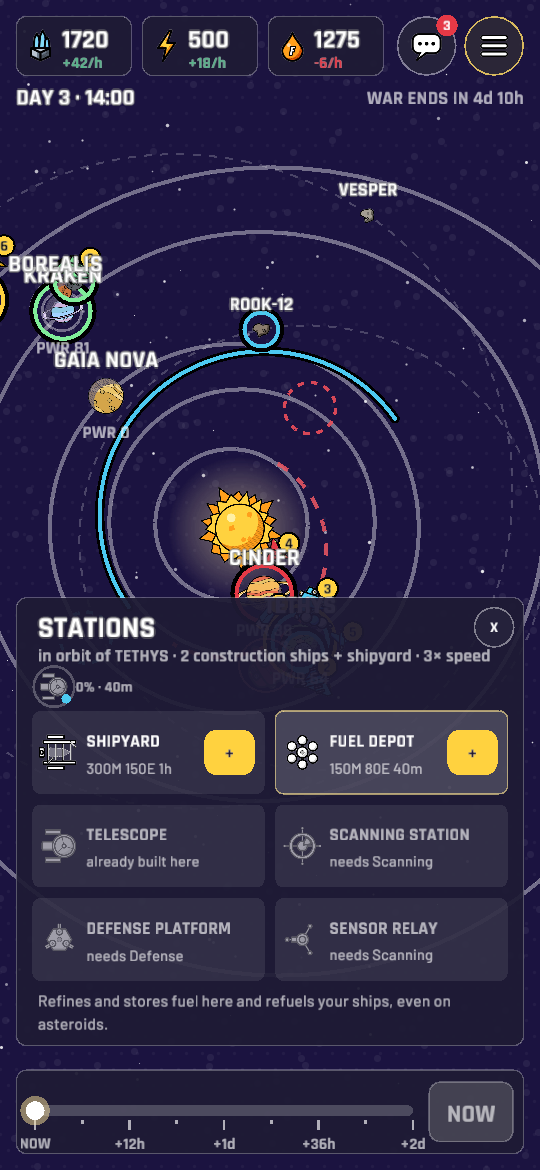
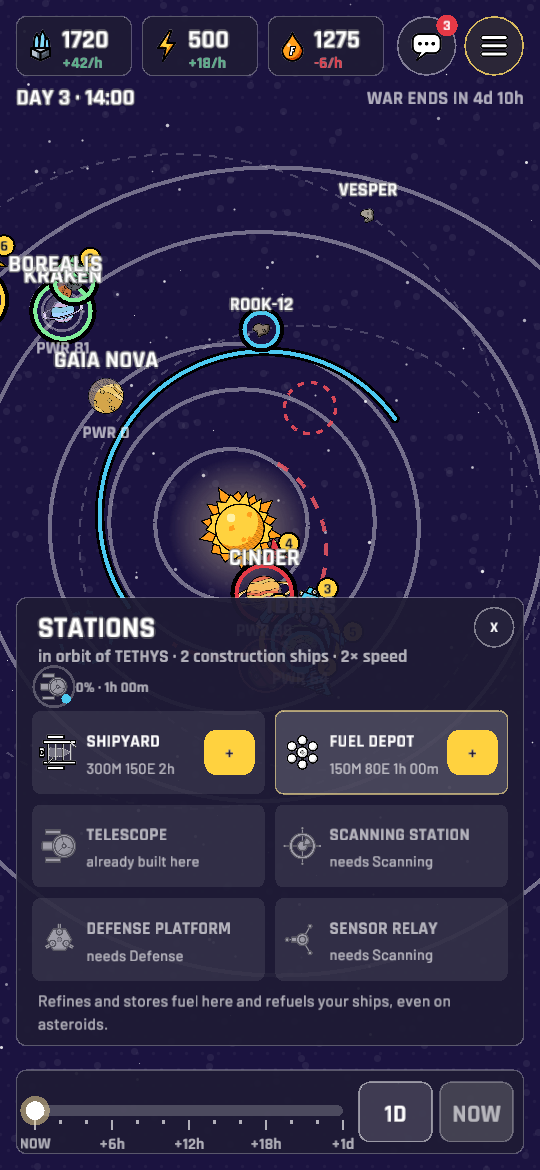
Stations need construction ships everywhere (Jonas): planet shipyards no longer count as a worker

diff --git a/crates/sim/src/station.rs b/crates/sim/src/station.rs
@@ -1,7 +1,7 @@
 //! Space stations: built in orbit of a planet, moon or asteroid. Unlike planet upgrades they
 //! don't need the body itself — a ship parked there is enough — so you can put a fuel depot on
 //! an asteroid or a telescope next to an enemy world. Stations are separate targets in combat.
-use crate::game::{EventKind, Game, PlayerId, ShipClass, Upgrade};
+use crate::game::{EventKind, Game, PlayerId, ShipClass};
 use crate::system::BodyId;
 use crate::tech::Tech;
 use serde::{Deserialize, Serialize};
@@ -127,7 +127,7 @@ impl Game {
 
     /// Why `p` can't build a `kind` station at `body` right now (None = it can).
     pub fn station_blocker(&self, p: PlayerId, body: BodyId, kind: StationKind) -> Option<String> {
-        let b = self.bodies.get(body.0 as usize)?;
+        self.bodies.get(body.0 as usize)?;
         if self.system.body(body).is_star() {
             return Some("can't build in orbit of the star".into());
         }
@@ -137,7 +137,7 @@ impl Game {
             }
         }
         if self.workers(p, body) == 0 {
-            return Some(if b.owner == Some(p) { "needs a shipyard or a construction ship here" } else { "needs a construction ship in orbit" }.into());
+            return Some("needs a construction ship in orbit".into());
         }
         if self.stations.iter().any(|s| s.owner == p && s.body == body && s.kind == kind) {
             return Some("you already have one there".into());
@@ -163,12 +163,10 @@ impl Game {
         self.ships.iter().filter(|s| s.owner == p && s.class == ShipClass::Constructor && s.parked_at() == Some(body)).count()
     }
 
-    /// Workers on `p`'s construction sites at `body`: constructors parked there, plus the body's own
-    /// shipyard if `p` holds it. Capped at `MAX_WORKERS`.
+    /// Workers on `p`'s construction sites at `body`: the constructors parked there (stations always
+    /// need construction ships, even at your own planets). Capped at `MAX_WORKERS`.
     pub fn workers(&self, p: PlayerId, body: BodyId) -> usize {
-        let b = &self.bodies[body.0 as usize];
-        let yard = (b.owner == Some(p) && b.level(Upgrade::Shipyard) > 0) as usize;
-        (self.constructors_at(p, body) + yard).min(MAX_WORKERS)
+        self.constructors_at(p, body).min(MAX_WORKERS)
     }
 
     /// Work done per second at `p`'s sites at `body` (each site there gets the full crew).
@@ -255,7 +253,9 @@ mod tests {
         let b = |g: &mut Game, body, kind| g.apply(0, Command::BuildStation { body, kind });
         assert!(b(&mut g, away, StationKind::Telescope).unwrap_err().contains("construction ship"));
         assert!(b(&mut g, home, StationKind::Scanner).unwrap_err().contains("Scanning"));
-        // home has a shipyard: one worker, so the listed single-worker time
+        // even at home a shipyard alone can't build stations: constructors are required everywhere
+        assert!(b(&mut g, home, StationKind::Telescope).unwrap_err().contains("construction ship"));
+        park(&mut g, 0, ShipClass::Constructor, home);
         b(&mut g, home, StationKind::Telescope).unwrap();
         assert!(b(&mut g, home, StationKind::Telescope).unwrap_err().contains("already"));
         // a warship parked at someone else's body isn't enough any more; a constructor is

diff --git a/crates/ui/src/game/research.rs b/crates/ui/src/game/research.rs
@@ -236,11 +236,9 @@ pub fn stations_sheet(g: &mut GameScreen, inp: &mut Input, be: &dyn Backend, vie
     }
     let Some(sv) = be.stations(body) else { return };
     // Crew line: who is building here and how fast.
-    let yard = sv.workers > sv.constructors;
-    let crew = match (sv.constructors, yard) {
-        (0, false) => "no construction ships here".to_string(),
-        (0, true) => "your shipyard builds at 1×".to_string(),
-        (n, y) => format!("{n} construction ship{}{} · {}× speed", if n == 1 { "" } else { "s" }, if y { " + shipyard" } else { "" }, sv.workers),
+    let crew = match sv.constructors {
+        0 => "no construction ships here".to_string(),
+        n => format!("{n} construction ship{} · {}× speed", if n == 1 { "" } else { "s" }, sv.workers),
     };
     text(&format!("in orbit of {name} · {crew}"), r.x + pad, r.y + 44.0 * s(), 13.0, if sv.present { MUTED } else { DANGER }, FontKind::Title, Align::Left);
 

diff --git a/crates/ui/src/demo.rs b/crates/ui/src/demo.rs
@@ -666,7 +666,7 @@ impl Backend for DemoBackend {
         let v = self.view.as_ref()?;
         let now = self.now();
         let constructors: usize = v.ships.iter().filter(|s| s.owner == v.me && s.class == ShipClass::Constructor && s.parked_at == Some(id) && s.trajectory.is_none()).map(|s| s.count as usize).sum();
-        let workers = (constructors + (v.body(id)?.owner == Some(v.me)) as usize).min(6);
+        let workers = constructors.min(6);
         let present = workers > 0;
         let here = self
             .stations

diff --git a/COORD.md b/COORD.md
@@ -850,3 +850,7 @@ neither real ships nor forecast-only ships. (3) `view_for` keeps only your own f
 Tests thread FYI: `client_e2e` failed once for me with "plan needs 161.4 fuel, ship has 160" and passed on 2 reruns — looks
 time-dependent (the planned ship's fuel vs. the plan's now), not fleet-related.
 — fleets thread
+
+### Research thread (2026-10-26 03:15): Jonas — constructors required everywhere. Branch `constructors-only` ready (on e78ca43, ci.sh OK)
+`Game::workers` = constructors parked there only (planet shipyards no longer count); blocker text "needs a construction ship in orbit";
+UI crew line + demo updated; station test updated. Bots already parked a constructor at home first. Small diff: station.rs, ui research.rs/demo.rs.
